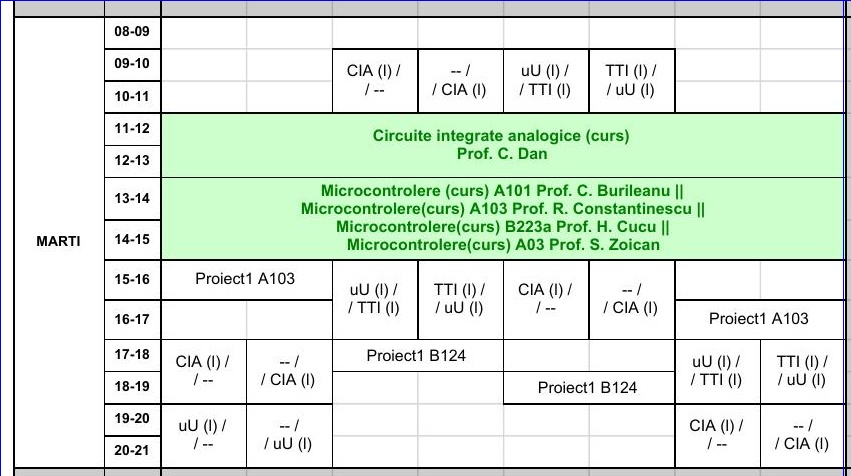
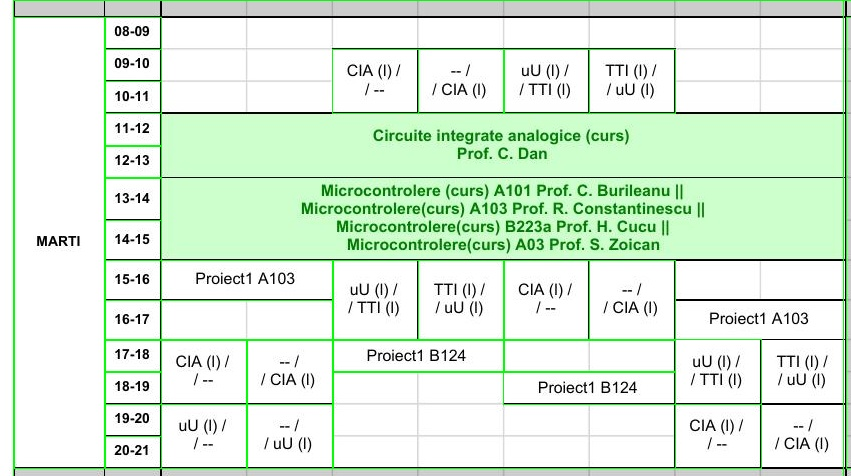
rectangles around courses/ hour intervals

Changed region(s): [[0.0, 0.0, 1.0, 1.0], [0.3972, 0.0882, 0.7944, 0.2647], [0.5805, 0.8235, 0.9166, 0.8529]]

diff --git a/scanOrar.py b/scanOrar.py
@@ -3,7 +3,10 @@ import imutils
 import cv2
 import numpy as np
 import os
+from PIL import Image
+import pytesseract
 
+pytesseract.pytesseract.tesseract_cmd = 'D:\\Program Files (x86)\\Tesseract\\tesseract.exe'
 
 def getCoordinatedFromCropped(original, cropped, pointsx, pointsy):
     
@@ -129,8 +132,6 @@ cv2.imshow('after morph + lines', blank_image2)
 
 gray = cv2.cvtColor(blank_image2, cv2.COLOR_BGR2GRAY)
 _, binary = cv2.threshold(gray, 0, 255, cv2.THRESH_BINARY_INV | cv2.THRESH_OTSU)
-
-
 contours, hierarchy = cv2.findContours(binary, cv2.RETR_CCOMP, cv2.CHAIN_APPROX_NONE)
 
 cv2.waitKey()
@@ -151,19 +152,39 @@ for ind, cnt in enumerate(contours):
     x, y, w, h = cv2.boundingRect(cnt)
     
     print('cropped coords: ', y, y+h, x, x+w)
-    ROI_cropped = resized[y:y+h, x:x+w]
-    cv2.imshow('ROI_cropped', ROI_cropped)
+    # ROI_cropped = resized[y:y+h, x:x+w]
+    # cv2.imshow('ROI_cropped', ROI_cropped)
     
     newCoords = getCoordinatedFromCropped(final_orar, resized, [x, x+w], [y, y+h])
-    print('orig coords: ', newCoords[0][1], newCoords[1][1], newCoords[0][0], newCoords[1][0])
     ROI_original = final_orar[newCoords[0][1]:newCoords[1][1], newCoords[0][0]:newCoords[1][0]]
+    print('orig coords: ', newCoords[0][1], newCoords[1][1], newCoords[0][0], newCoords[1][0])
     
-    cv2.imshow('ROI_original', ROI_original)
+    
+    grayROI_original = cv2.cvtColor(ROI_original, cv2.COLOR_BGR2GRAY)
+    _, binaryROI_original = cv2.threshold(grayROI_original, 0, 255, cv2.THRESH_BINARY_INV | cv2.THRESH_OTSU)
+    contoursROI_original, hierarchy = cv2.findContours(binaryROI_original, cv2.RETR_CCOMP, cv2.CHAIN_APPROX_NONE)
+
+    for cnt in contoursROI_original:
+        x, y, w, h = cv2.boundingRect(cnt)
+        if cv2.contourArea(cnt) > 100:
+            cv2.rectangle(ROI_original, (x, y), (x+w, y+h), (0, 255, 0), 1)
+        
+
+    # cv2.imshow('ROI_original', ROI_original)
 
     if not os.path.exists(folder):
         os.makedirs(folder)
 
-    cv2.imwrite(os.path.join(folder, name), ROI_original)
+    destination_cell = os.path.join(folder, name)
+    cv2.imwrite(destination_cell, ROI_original)
+
+
+
+    # text = pytesseract.image_to_string(Image.open(destination_cell))
+    # txt = [x for x in text.split() if not x == '']
+    # print(txt)
 
     if cv2.waitKey() == ord('q'):
         break
+
+
